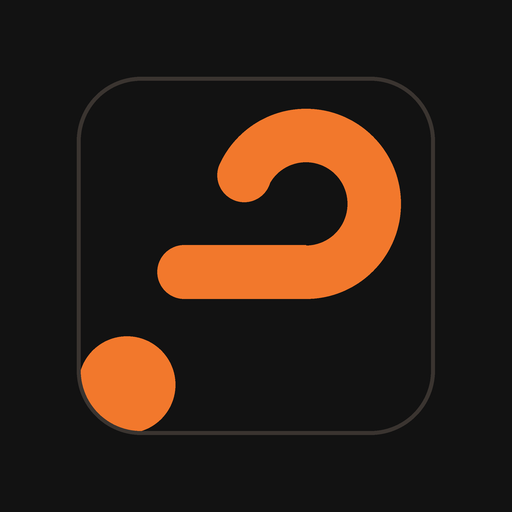
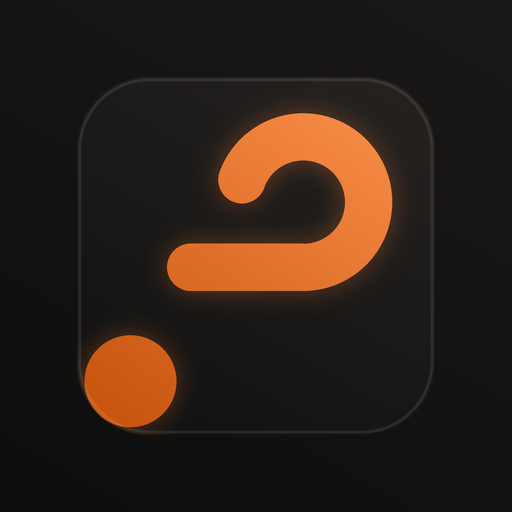
Иконка в стиле сайта: градиент как у кнопок, мягкое свечение, тёмная плитка
Claude-Session: https://claude.ai/code/session_01R78cxW2JUJyUgw2rwqr6su

diff --git a/index.html b/index.html
@@ -8,8 +8,8 @@
 <meta name="theme-color" content="#121212">
 <!-- Приложение на экране телефона -->
 <link rel="manifest" href="manifest.webmanifest">
-<link rel="icon" type="image/png" href="favicon.png">
-<link rel="apple-touch-icon" href="apple-touch-icon.png">
+<link rel="icon" type="image/png" href="favicon.png?v=3">
+<link rel="apple-touch-icon" href="apple-touch-icon.png?v=3">
 <meta name="apple-mobile-web-app-capable" content="yes">
 <meta name="mobile-web-app-capable" content="yes">
 <meta name="apple-mobile-web-app-status-bar-style" content="black-translucent">
@@ -28,7 +28,7 @@
 <link rel="preconnect" href="https://fonts.googleapis.com">
 <link rel="preconnect" href="https://fonts.gstatic.com" crossorigin>
 <link rel="stylesheet" href="https://fonts.googleapis.com/css2?family=Golos+Text:wght@400;500;600&family=IBM+Plex+Mono:wght@400;500&family=Literata:wght@400;500;600&display=swap">
-<link rel="stylesheet" href="style.css?v=20261031e">
+<link rel="stylesheet" href="style.css?v=20261031f">
 </head>
 <body>
 <div id="app"></div>
@@ -36,9 +36,9 @@
 
 <!-- Библиотека для работы с Supabase (вход и база данных) -->
 <script src="https://cdn.jsdelivr.net/npm/@supabase/supabase-js@2.45.4/dist/umd/supabase.min.js"></script>
-<script src="config.js?v=20261031e"></script>
-<script src="horoscope-data.js?v=20261031e"></script>
-<script src="game.js?v=20261031e"></script>
-<script src="app.js?v=20261031e"></script>
+<script src="config.js?v=20261031f"></script>
+<script src="horoscope-data.js?v=20261031f"></script>
+<script src="game.js?v=20261031f"></script>
+<script src="app.js?v=20261031f"></script>
 </body>
 </html>

diff --git a/app.js b/app.js
@@ -2119,7 +2119,7 @@
     function main() {
       box.replaceChildren(
         el('div', { class: 'ih-row' }, [
-          el('img', { class: 'ih-icon', src: 'icon-192.png', alt: '', width: 48, height: 48 }),
+          el('img', { class: 'ih-icon', src: 'icon-192.png?v=3', alt: '', width: 48, height: 48 }),
           el('div', { class: 'ih-text' }, [
             el('p', { class: 'ih-title', text: 'Теперь можно установить как приложение' }),
             el('p', { class: 'ih-sub', text: 'Иконка на экране телефона, открывается без браузера. Если не сейчас — это можно сделать позже в Профиле.' })
